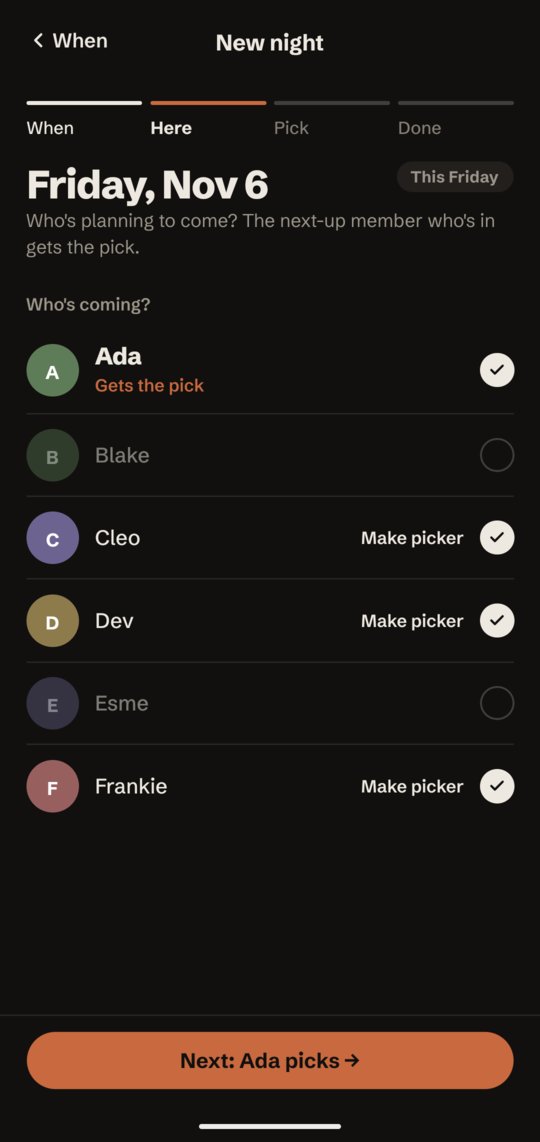
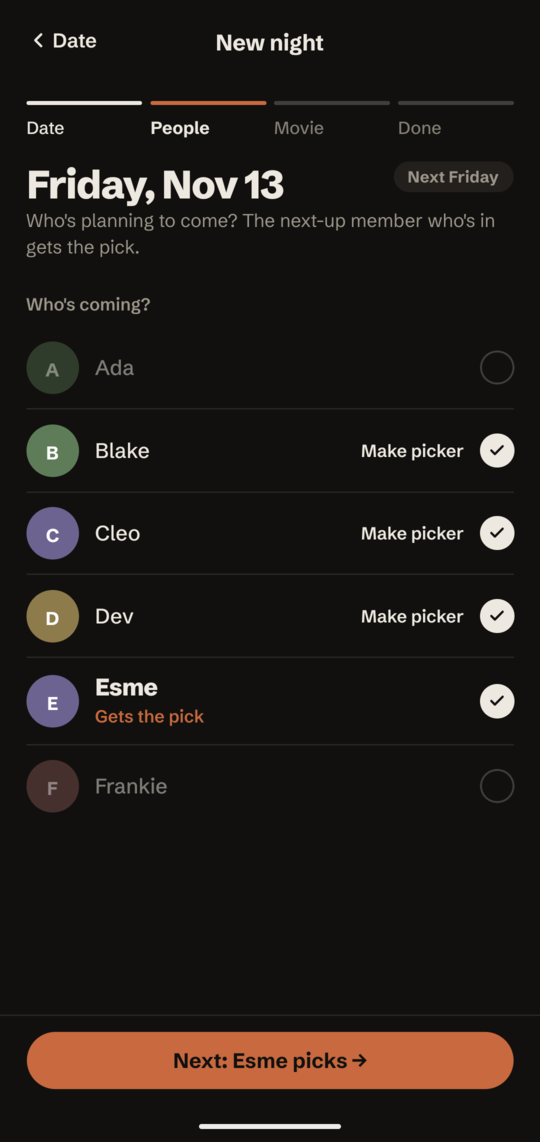
Design system 6/6: update CLAUDE.md design guidance and the docs (#179) (#189)
mobile/CLAUDE.md now describes the design as it stands after phases 1–5:
the film leads and the picker is a Credit line under it; one primary action
per screen (none on a recorded night) with secondary actions behind a ⋯
Sheet; Newsreader upright at 500 with no italics; the four tabs (Tonight,
Upcoming, Watched, Club) with Settings as a stack screen; solid flow
footers, back links that name the previous screen, and neutral disabled
buttons. The Logo bullet covers the re-centred mark, the theme-following
splash, and rendering the PNGs with `just icons`.

The root CLAUDE.md, root README and mobile README drop the old History and
Settings tabs. The README screenshots are retaken on the phone: a film-led
Tonight, the who's-coming step, and Watched (replacing History).

Closes #179

diff --git a/mobile/CLAUDE.md b/mobile/CLAUDE.md
@@ -14,32 +14,53 @@ semantic groups (`colors.text.*`, `colors.surface.*`, `colors.accent.*`,
   returns. Use `useColors()` for inline colours such as icon props. Keep
   `theme/colors.ts` free of react-native, because `lib/` imports it in Node
   tests.
+- **The film leads.** Once a night has a film, its title is the headline.
+  The picker is a credit line under it ("Picked by Priya", "Tomas is
+  picking"): the `Credit` component, with a 28px avatar. Only Tonight's hero
+  with no night planned (`PickerHero`) makes the picker's name the headline.
+- **One primary action per screen**, and none on a recorded night. Secondary
+  actions (Change film, Edit night, Clear film) go behind a ⋯ `IconButton`
+  that opens a `Sheet`.
 - **The accent is rationed.** Terracotta (`accent.*`) goes on the picker
-  (the `Next up` badge, a small bar or dot, never the avatar) and on the one
-  primary action per screen. Nowhere else. Links are `text.link`, not accent.
+  (the `Next up` badge, a small bar or dot, never the avatar) and on that one
+  primary action. Nowhere else. Links are `text.link`, not accent. Disabled
+  buttons turn neutral (`surface.subtle` fill, `text.tertiary` label), never
+  a faded accent.
 - **Nothing glows.** No glows, washes or halos, except `shadow.focus` on a
   focused control. Shadows only on floating surfaces.
 - **Member colours.** Avatars use `signatureColor(name, colors.sig)` from
   `lib/avatar.ts`, with `text.onSig` initials and no ring.
 - **Type.** Schibsted Grotesk for everything (`fontFamily.display` 800 for
-  names and titles, the sans weights for UI and body). Newsreader Italic
-  (`textPresets.filmTitle`) for film titles. Spread `tabular` only where
-  there are numbers (counts, dates), not on prose.
+  names and titles, the sans weights for UI and body). Newsreader, upright at
+  500 (`textPresets.filmTitle`), for film titles and the one serif line under
+  a title. No italics anywhere. Spread `tabular` only where there are numbers
+  (counts, dates), not on prose.
 - **Copy.** Sentence case everywhere, including badges and section labels.
   No uppercase and no `textTransform: "uppercase"`. No emoji: only `✓ → …`
   (the `✦` spark is retired).
 - **Shape.** 4px grid. Buttons and badges are pills, inputs 12px, cards
   18px, hero cards and sheets 28px, posters 4px. Lists sit flush on the page
   with hairline dividers. Cards are only for discrete objects.
-- **Logo.** The mark is a calendar page with a play button. Its SVGs in
+- **Navigation.** Four tabs: Tonight, Upcoming, Watched, Club, with Lucide
+  icons; the active tab is `text.primary`, never accent. Settings is a stack
+  screen opened from the gear in Tonight's top bar. Back links name the
+  previous screen (`TopBar`'s `back.label`). Flow footers (`WizardFooter`)
+  are solid with a hairline top edge and carry one summary line.
+- **Logo.** The mark is a calendar page with a play button, centred on the
+  calendar body so the binder tabs rise above centre. Its SVGs in
   `mobile/assets/brand/` are copied byte for byte from the design system.
   Never redraw or recolour them. In UI use the `Logomark` component, which
-  picks `logomark.svg` or `logomark-light.svg` for the theme. The app icons
-  in `assets/*.png` are rendered from `app-icon.svg` and
-  `app-icon-foreground.svg` (the Android adaptive background is `#11100E`).
+  picks `logomark.svg` or `logomark-light.svg` for the theme. The icons,
+  Android adaptive layers, splash and favicon in `assets/*.png` are rendered
+  from those SVGs by `just icons`; don't edit the PNGs by hand. The splash
+  follows the OS theme (the Android adaptive and dark splash background is
+  `#11100E`). Icons and splash are native: rebuild the dev client after
+  re-rendering.
 - **Source of truth.** `mobile/docs/design-system/` holds every value: its
-  README, `tokens.json` and `components/src/**/*.jsx`. It's a snapshot of the
-  design tool's export; to update it, replace the folder in one commit (minus
-  its `mobile/assets/` PNGs, which show the retired ring mark). Don't add
-  deprecated aliases (`--night-*`, `--moon-*`, `--accent-cool*`,
-  `--glow-spotlight`, mono fonts).
+  README, `tokens.json` and `components/src/**/*.jsx`. Each component's
+  `components/<Name>/README.md` is its spec, and
+  `design_handoff_app_redesign/app-screens/` shows every screen. It's a
+  snapshot of the design tool's export; to update it, replace the folder in
+  one commit (minus its `mobile/assets/` PNGs, which show the retired ring
+  mark). Don't add deprecated aliases (`--night-*`, `--moon-*`,
+  `--accent-cool*`, `--glow-spotlight`, mono fonts).

diff --git a/mobile/README.md b/mobile/README.md
@@ -4,15 +4,17 @@ Expo / React Native app for the Movie Night [backend](../backend). Four tabs,
 built with [expo-router](https://docs.expo.dev/router/introduction/):
 
 - **Tonight**: whose turn it is, who's on deck, and the next night.
-- **History**: every night, newest first.
+- **Upcoming**: every night on the calendar, soonest first.
+- **Watched**: every night the group has had, newest first, by month.
 - **Club**: members in rotation, guests, and inactive members; add someone new.
-- **Settings**: your identity, the group name, and reminders.
 
-Planning a night (when, who, which film) and editing it are full-screen flows
-on top of the tabs. On first run, a welcome screen asks which member you are.
+Settings (your identity, the group name, and reminders) opens from the gear on
+Tonight. Planning a night (when, who, which film) and editing it are
+full-screen flows on top of the tabs. On first run, a welcome screen asks
+which member you are.
 
-The UI follows the "Spotlight" design system; tokens live in `theme/` and are
-documented in [`CLAUDE.md`](CLAUDE.md).
+The UI follows the "Spotlight, refined" design system; tokens live in `theme/`
+and the rules are in [`CLAUDE.md`](CLAUDE.md).
 
 ## Stack
 
@@ -223,15 +225,16 @@ light page, the dark mark on `#11100E`.
 mobile/
 ├── app/               # expo-router screens
 │   ├── _layout.tsx    # root stack, fonts, theming
-│   ├── (tabs)/        # Tonight, History, Club, Settings
+│   ├── (tabs)/        # Tonight, Upcoming, Watched, Club
 │   ├── night/         # plan, view, and edit a night
 │   ├── member/        # member profile, add a member
 │   ├── rotation.tsx   # the full turn order
+│   ├── settings.tsx   # identity, group name, reminders (from Tonight's gear)
 │   └── welcome.tsx    # first run: pick who you are
 ├── lib/               # framework-free logic + its tests (no React Native imports)
 ├── components/        # shared UI; night/ holds the night-flow steps
 ├── *.ts               # thin native adapters (secure storage, push, calendar, API URL)
-├── theme/             # "Spotlight" design tokens (colors, spacing, typography)
+├── theme/             # "Spotlight, refined" design tokens (colors, spacing, typography)
 ├── assets/            # brand SVGs, the icon/splash PNGs rendered from them, fonts
 ├── scripts/           # `just phone` driver, Android push setup wizard
 ├── app.json           # Expo app config

diff --git a/README.md b/README.md
@@ -11,11 +11,11 @@
 </p>
 
 <p align="center">
-  <img src="docs/screenshots/tonight.png" width="250" alt="Tonight: Dev picks the film tonight, with Ada, Cleo and Blake up next">
+  <img src="docs/screenshots/tonight.png" width="250" alt="Tonight: Paddington 2 on Friday, picked by Ada, with Cleo, Blake and Dev up next">
   &nbsp;
-  <img src="docs/screenshots/plan-who.png" width="250" alt="Planning a night: marking who's coming on Friday, and Ada gets the pick">
+  <img src="docs/screenshots/plan-who.png" width="250" alt="Planning a night: marking who's coming next Friday, and Esme gets the pick">
   &nbsp;
-  <img src="docs/screenshots/history.png" width="250" alt="History: nights grouped by month, with posters, pickers and dates">
+  <img src="docs/screenshots/watched.png" width="250" alt="Watched: nights grouped by month, with posters, pickers and dates">
 </p>
 
 Most movie apps help a group *agree* on a film. Movie Night does the opposite:
@@ -29,8 +29,8 @@ whose turn it is.
 - **Plan a night.** Pick a date, mark who's coming, and the turn goes to the
   next person in line who's there. Then find the film, with posters from
   [TMDB](https://www.themoviedb.org).
-- **History.** Every night the group has had: the film, who picked it, and who
-  came.
+- **Upcoming and Watched.** Every night on the calendar, and every night the
+  group has had: the film, who picked it, and who came.
 - **Members and guests.** Guests can join and pick sometimes without entering
   the rotation.
 - **Reminders** before each night.

diff --git a/CLAUDE.md b/CLAUDE.md
@@ -7,7 +7,7 @@ This file provides guidance to Claude Code (claude.ai/code) when working with co
 A monorepo with two independent components, each with its own toolchain, `justfile`, and README:
 
 - **`backend/`** — Go HTTP API over PostgreSQL. See [`backend/README.md`](backend/README.md).
-- **`mobile/`** — Expo / React Native app (expo-router tabs: Tonight, History, Club, Settings, plus the night plan/edit flows). See [`mobile/README.md`](mobile/README.md).
+- **`mobile/`** — Expo / React Native app (expo-router tabs: Tonight, Upcoming, Watched, Club; Settings and the night plan/edit flows are stack screens). See [`mobile/README.md`](mobile/README.md).
 
 `just` is the single source of truth for commands: **CI workflows and the lefthook git hooks call the same recipes you run locally.** When you change how something builds/lints/tests, edit the relevant `justfile` — CI (`.github/workflows/*.yml`) and hooks (`lefthook.yml`) follow automatically. CI calls recipes via `extractions/setup-just`; all GitHub Actions are pinned to commit SHAs.
 
